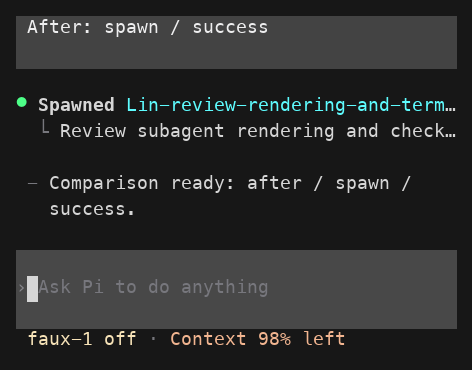
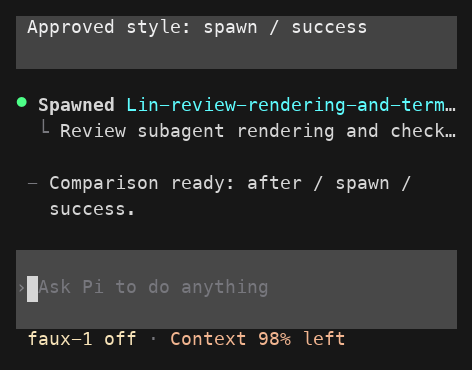
docs(adventure): 收敛界面原型并保存英雄命名规划

Changed region(s): [[0.0593, 0.0297, 0.5932, 0.0892], [0.6229, 0.0595, 0.7712, 0.0892]]

diff --git a/adventure/prototypes/subagent-ui/smoke.py b/adventure/prototypes/subagent-ui/smoke.py
@@ -18,8 +18,7 @@ from PIL import Image, ImageDraw, ImageFont
 here = Path(__file__).resolve().parent
 repo = here.parents[2]
 mode = 'fullscreen' if '--fullscreen' in sys.argv else 'regular'
-before = '--before' in sys.argv
-style = next((name for name in ['before', 'after', 'neutral', 'soft', 'quiet'] if '--' + name in sys.argv), 'after')
+style = 'after'
 output_dir = repo / '.tmp' / f'subagent-ui-{style}-{mode}'
 output_dir.mkdir(parents=True, exist_ok=True)
 screen = pyte.Screen(120, 70)
@@ -94,7 +93,7 @@ def color(value, fallback):
 def capture(name, focus=False):
     screens[name] = view()
     rows = [i for i, line in enumerate(screen.display) if line.strip()]
-    start = next((i for i in reversed(rows) if screen.display[i].strip().startswith(('Before:', 'After:', 'Neutral text:', 'Soft green:', 'Quiet metadata:'))), 0)
+    start = next((i for i in reversed(rows) if screen.display[i].strip().startswith(('Approved style:',))), 0)
     end = rows[-1] + 1 if rows else screen.lines
     if focus:
         start = next(i for i, line in enumerate(screen.display) if "Finished waiting for" in line)
@@ -126,42 +125,36 @@ try:
     assert 'Extension issues' not in view(), view()
     for text in ['Spawned Lin', 'Sent input to Lin', 'Listed 2 subagents', 'Read activity from Lin', 'Finished waiting for Lin', 'Closed Lin', 'Read tool-style.ts', 'Bash']:
         assert text in view(), (text, view())
-    assert markers()[-6:] == (['77777d'] * 6 if before else ['4dff88'] * 6), markers()
-    expected_success = {'before': '4dff88', 'after': '40d672', 'neutral': 'd6d6d6', 'soft': '8fb89b', 'quiet': '77777d'}[style]
+    assert markers()[-6:] == ['4dff88'] * 6, markers()
+    expected_success = '46e87c'
     for needle in ['Settled', 'Process stopped']:
         cells = [screen.buffer[row][line.index(needle)].fg for row, line in enumerate(screen.display) if needle in line]
         assert cells and all(value == expected_success for value in cells), (needle, cells, expected_success)
-    if style == 'quiet':
-        row = next(row for row, line in enumerate(screen.display) if 'Settled' in line)
-        line = screen.display[row]
-        cells = [screen.buffer[row][col].fg for col in range(len(line)) if line[col].strip()]
-        assert set(cells) == {'77777d'}, ('Success summary must be uniformly dim', cells)
     capture('success')
     capture('palette', focus=True)
     os.write(fd, b'\x0f')
     settle()
     assert 'Reviewed the renderer.' in view(), view()
-    if not before:
-        assert '│ Review subagent' in view(), view()
+    assert '│ Review subagent' in view(), view()
     capture('expanded')
     os.write(fd, b'\x0f')
     settle()
     command(f'/demo all hold {style}')
     wait(lambda: 'Waiting for child-lin' in view() and 'Closing child-lin' in view(), 'all six held')
     settle()
-    assert markers()[-6:] == (['77777d'] * 6 if before else ['ffe66d'] * 6), markers()
+    assert markers()[-6:] == ['ffe66d'] * 6, markers()
     capture('running')
     command('/finish success')
     wait(lambda: f'Comparison ready: {style} / all / hold.' in view(), 'held calls complete')
     settle()
-    assert markers()[-6:] == (['77777d'] * 6 if before else ['4dff88'] * 6), markers()
+    assert markers()[-6:] == ['4dff88'] * 6, markers()
     demo('all', 'error')
     assert 'Spawn failed' in view(), view()
-    assert markers()[-6:] == (['77777d'] * 6 if before else ['ff6b6b'] * 6), markers()
+    assert markers()[-6:] == ['ff6b6b'] * 6, markers()
     capture('error')
     for outcome in ['timeout', 'interrupted']:
         demo('wait', outcome)
-        assert markers()[-1:] == (['77777d'] if before else ['ffe66d']), markers()
+        assert markers()[-1:] == ['ffe66d'], markers()
         capture(outcome)
     command(f'/demo spawn success {style} long')
     wait(lambda: f'Comparison ready: {style} / spawn / success.' in view(), 'long agent name')

diff --git a/adventure/prototypes/subagent-ui/README.md b/adventure/prototypes/subagent-ui/README.md
@@ -1,91 +1,64 @@
-# Subagent UI comparison
+# Subagent UI prototype
 
-## Question
+## Status
 
-保留六类工具消息的信息结构后，统一状态符号、文字层级和结果缩进，是否让 subagent 与周围的 codex-ui 更协调？请在同一终端对照原版与候选版，并查看展开与窄屏。
+用户已确认 /after 的视觉方案，最后将成功文字绿色修正为 #46e87c。原型已收敛为这一版；原版、正文色、灰绿与暗灰的交互入口和预览已移除，历史可从 Git 恢复。完整有效规格在 [Spec #25](https://github.com/wangxuyang1221/pi-ext/issues/25) 维护。
 
-本原型属于 [Planning #27](https://github.com/wangxuyang1221/pi-ext/issues/27)。用户已确认制作范围，尚未确认视觉方案。
+随机英雄名属于新增的 [Planning #28](https://github.com/wangxuyang1221/pi-ext/issues/28)，尚未接入此原型。
 
 ## Run
-
-在本冒险 worktree 中运行：
 
 ```sh
 cd /Users/wangxuyang/Code/t3code/pi-ext/.scratch/u
 pnpm exec node adventure/prototypes/subagent-ui/demo.mjs
 ```
 
-启动默认展示用户选回的 /after 布局，成功文字绿色从 #4dff88 小幅调暗为 #40d672，并保留真实 codex-ui Read、Bash 作为参照。
+默认展示已确认的六类工具消息，并保留真实 codex-ui Read、Bash 作为参照。
 
-- `/quiet`：历史暗灰方案，成功状态文字使用 dim #77777d，与后续元信息同色。
-- `/neutral`：选项 1，成功状态文字使用正文色 #d6d6d6。
-- `/soft`：选项 2，成功状态文字使用灰绿 #8fb89b。
-- `/before`：追加原版六类消息。
-- `/after`：当前方案，沿用原候选布局，成功文字绿色微调为 #40d672。
-- `Ctrl+O`：使用 Pi 原生折叠/展开。
-- `/demo all hold`：观察六类工具进行中，再输入 `/finish success` 或 `/finish error`。
+- `/after`：重新展示六类消息。
+- `Ctrl+O`：Pi 原生折叠/展开。
+- `/demo all hold`：观察六类调用进行中，再用 `/finish success` 或 `/finish error` 完成。
 - `/demo all error`：观察六类失败消息。
-- `/demo wait timeout` 与 `/demo wait interrupted`：观察等待超时和中断。
-- `/demo spawn success after long`：观察长名称。缩小窗口到 40 或 80 列检查截断。
+- `/demo wait timeout` 与 `/demo wait interrupted`：观察等待超时、中断。
+- `/demo spawn success after long`：观察长名称，可将终端缩到 40 或 80 列。
 - `/quit`：退出并清理隔离运行目录。
 
-`--after` 为当前默认方案；`--quiet` 可指定历史暗灰方案；`--neutral` 和 `--soft` 可指定之前的两个方案，`--before` 可从原版开始，`--expanded` 可从展开状态开始，`--fullscreen` 使用 Pi 全屏模式。每次调用的样式固定，切换不会改写上方已有消息。`/before` 和 `/after` 只是追加显示对照，不执行真实子代理。
+启动时可加 `--expanded` 或 `--fullscreen`。原型不会运行真实子代理。
 
 ## Landing Map
 
-- Target：Pi 主对话的 subagent 工具调用与结果行，覆盖 spawn、prompt、list、read、wait、close。
+- Target：Pi 主对话中的 spawn、prompt、list、read、wait、close 工具调用与结果行。
 - Context：真实 Pi 0.86.0 InteractiveMode，加上当前生产 codex-ui 的编辑器、页脚、Read 和 Bash 渲染。
-- Contract：Pi registerTool 的 renderShell self、renderCall、renderResult、行内共享 state、isPartial、isError 与原生展开状态。fixture 替换 execute 返回的数据，不替换 Pi 的布局与工具生命周期渲染。
-
-## Candidate
-
-- 复用 codex-ui 的状态圆点与主题色。调用进行中为黄色，成功为绿色，失败为红色；wait 超时和中断为黄色。
-- 标题仍强调动作，目标名称使用 accent 色但不额外加粗。
-- 任务和回复用正文色，活动统计等辅助信息弱化。
-- 多行结果使用竖线连接，末行用转角结束；单行结果保持原有缩进。
-- 保留所有原有文案、字段、顺序及默认/展开信息归属。窄屏仍按现有规则截断。
-
-圆点描述工具调用，不把成功创建或发送消息解释为子代理任务已经完成。展开状态中仍可看到 Running。此语义已用原型覆盖，是否采用这套视觉方案由用户审阅决定。
-
-## Success text variants
-
-用户认为 Settled 的绿色过亮，已要求把两个替代方案都做出来。当前仅限 subagent 结果区的成功状态文字：Settled、Process stopped、列表中 settled 的数量/状态等。选项 1 使用主题 text，选项 2 在原型中使用固定灰绿 #8fb89b。两者的标题圆点、warning、error、正文、信息顺序和布局相同。没有修改全局主题，因此周围 Read/Bash 与 diff 颜色保持原样。
-
-styles.mjs 通过结果区专用 theme 代理实现；灰绿是原型固定色，尚不是正式主题 API 设计。用户已否定正文色与灰绿两版。最新 quiet 方案经用户要求制作，将同一范围的成功文字映射到主题 dim，使 Settled 与其后整行元信息一致；标题圆点、警告/错误、任务与回复正文保持原样。用户随后选择回到 /after，要求绿色仅调暗一点。当前 /after 成功文字为 #40d672，保留鲜绿色调；标题圆点继续使用主题 success #4dff88。neutral、soft、quiet 保留作历史比较。新色值仍是待审阅的试调值。
+- Contract：registerTool 的 renderShell self、renderCall/renderResult、共享 state、isPartial/isError 与原生展开状态。仅替换 execute 的数据来源和试验中的 renderer 样式。
 
 ## Real and fixture
 
-真实部分：当前仓库的 codex-ui 源码与主题、subagent 原版 renderer、Pi 会话、流式工具参数、工具组件、编辑器、页脚、快捷键和窗口尺寸变化。
+真实部分是仓库的 codex-ui、主题、subagent renderer、Pi 会话与流式工具参数、工具组件、编辑器、页脚、快捷键和窗口尺寸变化。
 
-fixture：模型由 Pi 官方 fauxProvider 提供固定响应；六类子代理结果及周围 Read/Bash 的执行结果由固定数据提供。Bash 中显示的命令只是上下文样例，不执行 shell。未加载真实 subagent manager，不创建子代理或 tmux。网络、真实凭证和用户配置不参与原型运行。
+fixture 为 Pi 官方 fauxProvider 的固定模型响应，以及子代理和 Read/Bash 的固定结果。显示的 Bash 命令只是例子，不执行 shell。原型不加载真实 subagent manager，不创建 tmux 或子代理，不读取真实凭证和用户配置。
 
-approximation：原型展示的是设计状态样例，不能验证真实任务耗时、子代理认证、资源调度或恢复行为。PNG 是从真实 PTY 终端单元格重绘的预览，颜色与内容来自捕获，字体回退和行高不等同于用户的终端。
+approximation：固定结果不能证明真实子代理的认证、调度、任务耗时或恢复行为。PNG 根据真实 PTY 单元格重绘，字体回退和行高可能与用户终端不同。实际效果以运行入口为准。
 
-## Implementation and cleanup
+## Files and cleanup
 
-所有原型文件集中在本目录。prepare.mjs 将生产源码转译到临时目录，并且只对候选版 renderer 应用锚点检查的局部补丁；不修改 extensions/src 或 dist。候选不另造业务数据模型，正式实施应将已批准的规则重新实现到生产源码和测试中，不直接引入运行时源码补丁。
+prepare.mjs 将生产源码转译到隔离目录，只对已确认方案应用带锚点检查的 renderer 补丁。styles.mjs 仅覆盖成功结果文字颜色。未修改生产 src，也未手工编辑 dist。
 
-启动脚本在仓库 .tmp 中创建隔离运行目录并在退出时删除。smoke.py 的测试截图和终端捕获留在 .tmp/subagent-ui-* 下供调试。无需启动后台服务或监听端口。
+原版 renderer 仅在 check.mjs 中作为信息保留对照，不是可切换的 UI 方案。正式实施应把已确认的规则实现到生产源码和正式测试，不把原型源码补丁直接发布。
+
+临时运行目录位于仓库 .tmp，退出时删除。测试捕获保存在 .tmp/subagent-ui-after-*；正式预览在 previews/。没有后台服务和监听端口。
 
 ## Verification
 
 ```sh
 pnpm exec node adventure/prototypes/subagent-ui/check.mjs
 conda run -n codex-py312 python adventure/prototypes/subagent-ui/smoke.py
-conda run -n codex-py312 python adventure/prototypes/subagent-ui/smoke.py --before
-conda run -n codex-py312 python adventure/prototypes/subagent-ui/smoke.py --quiet
-conda run -n codex-py312 python adventure/prototypes/subagent-ui/smoke.py --quiet --fullscreen
-conda run -n codex-py312 python adventure/prototypes/subagent-ui/smoke.py --neutral
-conda run -n codex-py312 python adventure/prototypes/subagent-ui/smoke.py --soft
-conda run -n codex-py312 python adventure/prototypes/subagent-ui/smoke.py --soft --fullscreen
+conda run -n codex-py312 python adventure/prototypes/subagent-ui/smoke.py --fullscreen
 ```
 
-check.mjs 对照 160 组渲染状态，验证前后文字信息不变，并检查 0、1、2、12、40、80、120 列不越界。PTY smoke 覆盖六类消息、成功/进行中/失败、wait 超时/中断、展开折叠、长名称、80/40/120 列切换、退出与网络零调用断言。
-
-验证结果与截图见 [review.md](review.md)。视觉是否达到目标尚待用户审阅，技术验证通过不代替用户确认。
+收敛后只验证已确认方案：40 组文字信息对照、0/1/2/12/40/80/120 列边界、六类状态、成功文字颜色、展开/折叠、长名称和窗口变化，以及退出清理、网络零调用。当前结果与预览见 [review.md](review.md)。
 
 ## API sources
 
-版本来自已安装的 @earendil-works/pi-coding-agent 与 pi-ai 0.86.0。Context7 查询只提供 main 版本文档，因此实际调用已对照本地同版本 dist/core/extensions/types.d.ts、SDK 声明、pi-ai/dist/providers/faux.d.ts 以及现有 tool-status-prototype/runtime.mjs 核验。
+运行版本为 @earendil-works/pi-coding-agent 与 pi-ai 0.86.0。Context7 提供 main 文档，因此 API 调用另与本地同版本 SDK/extension 声明、pi-ai 的 faux.d.ts 及现有 tool-status-prototype/runtime.mjs 核验。
 
 官方参考：[SDK](https://github.com/earendil-works/pi/blob/main/packages/coding-agent/docs/sdk.md)、[extension rendering](https://github.com/earendil-works/pi/blob/main/packages/coding-agent/docs/extensions.md)。

diff --git a/adventure/progress.md b/adventure/progress.md
@@ -1,6 +1,6 @@
 # Handoff
 
-> 从 Continuation Point 继续本次冒险。当前文件已替换继承的旧冒险存档；其他既有 adventure/ 材料属于历史任务，除非明确引用，不作为本次决策依据。
+> 继续当前冒险。只从本存档及明确引用的材料恢复；其他继承的 adventure/ 文件属于历史任务。
 
 ## Handoff Position
 
@@ -10,37 +10,48 @@
 
 ## Current Goal or Problem
 
-统一 subagent 与 codex-ui 的视觉。Map：https://github.com/wangxuyang1221/pi-ext/issues/24。完整有效要求只在 [Spec](https://github.com/wangxuyang1221/pi-ext/issues/25) 维护。
+统一 subagent 与 codex-ui 的 UI，并新增 spawn 随机漫威英雄名。Map 为 https://github.com/wangxuyang1221/pi-ext/issues/24，完整有效要求只在 [Spec #25](https://github.com/wangxuyang1221/pi-ext/issues/25) 维护。
+
+视觉方向 #26、视觉规则 #27 已通关。[英雄名 #28](https://github.com/wangxuyang1221/pi-ext/issues/28) 也已通关。用户要求完成本关后保存并暂停。
 
 ## Evolution
 
-用户提出 UI 不统一且尚无设计想法，显式调用 adventure。用户回复“同意”批准建图、独立 worktree 和冒险分支推送。随后两次回复“1”，分别选择先统一视觉并保留信息结构、覆盖全部六类主对话工具消息。方向关卡 #26 已通关，当前进入 #27。
+用户先选择视觉统一、保留信息结构，并覆盖全部六类消息。原型经历颜色比较后，用户明确要求收敛 /after。最后纠正颜色为 #46E87C，取代此前 #40D672；不要再询问颜色或恢复弃用方案。
+
+用户同时扩大目标：每次 spawn 随机英雄显示名。已确认调用方不再决定 name，同一父会话下避免重名，关闭后复用，名单耗尽时加编号。仍用 agentId 操作。名字池已选电影和漫画中的常见英雄。
 
 ## Agreed Decisions and Constraints
 
-- 沿用 Spec 中已确认的视觉统一方向与六类工具范围，不能重新询问已经作出的选择。
-- 用户已选择制作真实终端对照原型；具体视觉方案与实施切片尚未确认。
-- 使用本 worktree 与分支提交推送本次材料和代码，不创建 PR、不合并、不部署。
-- 主工作区有大量 adventure/ 未提交删除，必须保留，不能从 worktree 回写恢复。
-- 简体中文沟通；编辑 artifacts 前读取 docs/agents/repository-language-policy.md。禁止 skill-creator。遵循主仓库 AGENTS.md 与用户的全局约束。
-- 当前规划由主代理独立推进；进入已审核的 Implementation 后按 adventure 指派 worker，worker 不再委派。fork_turns 为 none，代码实施使用 worker 类型，并提供所需 skill 的绝对路径及要求完整读取。
+视觉最终规则见 Spec Tool presentation；英雄名已确认规则见 Spec Hero names。原型已移除 before/neutral/soft/quiet 的 UI 入口与图片，只保留已确认 /after；原版 renderer 仅在技术对照中使用。
+
+用户已批准同一冒险分支和 worktree 的创建、GitHub Issues、提交与推送。不得创建 PR、合并或部署。原型确认不代表实施切片已获批准。
+
+使用简体中文沟通，text artifacts 遵循 docs/agents/repository-language-policy.md。禁止 skill-creator。保留主工作区 adventure/ 下的未提交删除，不能从此 worktree 回写恢复。
+
+规划由主代理独立完成。进入已审核 Implementation 后按 adventure 技能委派 worker，fork_turns none、worker 类型、提供所需技能绝对路径并要求完整读取，worker 不再委派。
 
 ## Established Facts and Required Context
 
-工作目录：/Users/wangxuyang/Code/t3code/pi-ext/.scratch/u。分支：adventure/subagent-ui-consistency。基准：262824026e192e8c421ce1e1796db7b269723038。
+工作目录 /Users/wangxuyang/Code/t3code/pi-ext/.scratch/u，分支 adventure/subagent-ui-consistency。产品源码基准 262824026e192e8c421ce1e1796db7b269723038，当前未改生产源码。继续前确认 worktree 和 git status。
 
-[源码调查](evidence/ui-baseline.md) 保存现有差异及证据边界。subagent 使用灰色 •；codex-ui 使用按工具状态着色的 ⏺。Read 与 Bash 布局不同，共用状态标记。现有折叠/展开已经存在。工具调用成功与子代理任务完成不能混同。
+[原型入口](prototypes/subagent-ui/README.md) 与 [验收记录](prototypes/subagent-ui/review.md) 保存可运行原型、预览及验证限制。收敛后 40 组文本对照、7 个宽度边界及普通/全屏 PTY 验证通过。成功文字 #46E87C，标题圆点沿用主题 success。
 
-Map 与 Spec、#26、#27 已使用 GitHub 原生子 Issue 关系。冒险分支已推送。当前已交付可运行原型，未改生产源码。原型的渲染对照与真实 PTY 检查通过。缩短 worktree 路径后，原先四项 tmux 测试通过。pnpm run check 仍因缺失历史 MCP 原型文件失败；独立构建通过，包校验因缺失 docs/goal-descendant-acceptance.md 失败。完整结果见 [原型审阅](prototypes/subagent-ui/review.md)。本次启动的原型与验证进程已退出，无持续运行服务。
+[命名源码调查](evidence/hero-name-baseline.md) 说明集成边界：displayName 写入 launch、Pi --name 与 tmux；reserveSpawn 在父状态锁内预留容量，但旧代码在锁外生成名称。要保证并发不重名，设计是在同一父锁中预留名字，排除已登记名称及有效 reservation 名称。
 
-继续时读取 [当前关卡 #27](https://github.com/wangxuyang1221/pi-ext/issues/27)、Spec 与 /Users/wangxuyang/.agents/skills/wangxuyang/adventure/SKILL.md。如进入原型流程，读取其 references/prototyping.md；用户确认制作范围后才读取并使用 /Users/wangxuyang/.agents/skills/wangxuyang/make-a-prototype/SKILL.md。原型根目录按 adventure 要求为 adventure/prototypes/。
+pnpm run check 已执行，类型检查通过，2376 项测试通过、11 项跳过；唯一失败套件依赖基准缺失的 MCP 原型源码目录。此前独立构建通过，包校验另缺 docs/goal-descendant-acceptance.md。正式交付前需处理这些缺口，不能声称完整 check 通过。清理提交 341c22b 删除了相关资料但留下引用，建议切片审核纳入最小清理，不恢复旧资料或删除生产测试。详见命名证据 Baseline check failure。
+
+本任务验证进程结束后清理隔离运行目录。用户自己打开的原型进程不应被终止。没有为本次任务启动持续服务或端口监听。
+
+继续时读取 /Users/wangxuyang/.agents/skills/wangxuyang/adventure/SKILL.md、Spec 与 #28；准备切片时读取 /Users/wangxuyang/.agents/skills/wangxuyang/slicing/SKILL.md。
 
 ## Current Assumptions
 
-候选：采用 codex-ui 共用的状态标记、标题和辅助文字规则，保留 subagent 信息结构。用户已批准制作，原型已完成。候选包括按调用状态着色的 ⏺、目标名称取消加粗、正文提高对比度、辅助信息弱化、多行结果采用竖线与末行转角。具体配色、间距和状态映射仍待用户审阅。
+没有阻碍规格成立的未决产品问题。并发唯一、失败释放、旧状态兼容，以及正式主题和历史渲染仍待实施验证。32 个英文英雄称号由代理按用户确认范围整理，Marvel 官方正文已通过 MultiFetch 取得，来源可从命名证据恢复。
 
 ## Continuation Point
 
-第一关已通关并保存，当前 #27 保持 open，等待用户审阅回到 /after 后的绿色微调。读取 [README](prototypes/subagent-ui/README.md) 的运行入口与 [review.md](prototypes/subagent-ui/review.md) 的对照图、验证结果和限制。用户已批准制作，不需要再询问是否制作。用户反馈整体不错，但 Settled 过亮，要求两个方案都做。现已完成 /neutral 正文色与 /soft 灰绿 #8fb89b；只有成功结果文字不同，标题圆点保留原绿色。用户已否定这两个方案，并明确要求制作最新暗灰方案。现已加入 /quiet，把成功结果文字变为主题 dim，让 Settled 与后续元信息整行一致。用户随后选回 /after，要求绿色稍微调暗。当前 /after 默认成功文字从 #4dff88 改为 #40d672，标题圆点不变。下一步请用户审阅这个试调色值；neutral、soft、quiet 都是历史方案，不再要求用户在它们之间选择。不得把批准制作视为批准视觉方案。
+用户要求完成本关后保存并暂停，去吃饭。本次已通关 #28、移交 Spec、收敛原型并提交推送。保存后停止，不继续形成切片或派发 worker。Map 与 Spec 保持 open，规格已确定可用于实施。
 
-后续按原型制作与审阅结果确定规则，通过 #27 后移交 Spec，使用 slicing 形成切片并取得用户审核，再创建 Implementation 并逐关派发、验收。最终运行 pnpm run check 和适用的视觉核验，清理任务进程，等待用户交付确认后才关闭 Map/Spec。
+恢复后读取 Spec 和命名证据，使用 slicing 形成完整切片，交用户审核。可考虑遗留检查引用清理、六类 UI 正式集成、英雄命名三个结果，但这仅是接续建议，尚未形成或批准切片。批准后才创建 Implementation 并按 adventure 依次委派独立 worker，最后一关负责整体验收与清理。完整 pnpm run check 通过且用户确认交付后才关闭 Map/Spec。
+
+无需再询问颜色、name 覆盖、去重或名字池范围。生产代码未改，用户自己打开的原型进程保留。

diff --git a/adventure/prototypes/subagent-ui/review.md b/adventure/prototypes/subagent-ui/review.md
@@ -1,59 +1,27 @@
-# Prototype review
+# Prototype acceptance
 
 ## Decision
 
-用户选回 /after 布局，要求绿色只调暗一点。当前成功状态文字由 #4dff88 微调为 #40d672；其他布局、正文与辅助文字不变，标题圆点仍保持统一绿色。此前 neutral、soft、quiet 均为历史方案。当前微调值待审阅。
-
-## Current green
-
-[最新局部预览](previews/after-palette.png) · [完整界面](previews/after-success.png) · [原亮绿色完整界面](previews/after-original-success.png)
-
-重启后默认进入 /after，也可输入 /after 查看。
-
-## Quiet metadata
-
-[最新局部预览](previews/quiet-palette.png) · [完整界面](previews/quiet-success.png) · [展开](previews/quiet-expanded.png)
-
-输入 /quiet 可查看历史暗灰方案。完成信息统一为辅助文字，任务/回复正文仍清晰；标题圆点以及超时、失败提示保留原色。
-
-## Color comparison
-
-| Variant | Focus | Full context | Expanded |
-| --- | --- | --- | --- |
-| 1. Neutral text | [正文色](previews/neutral-palette.png) | [完整界面](previews/neutral-success.png) | [展开](previews/neutral-expanded.png) |
-| 2. Soft green | [灰绿](previews/soft-palette.png) | [完整界面](previews/soft-success.png) | [展开](previews/soft-expanded.png) |
-
-在终端输入 /neutral 或 /soft 切换。两版只改变成功结果文字，状态圆点保留原有统一绿色。
+用户已确认 /after，并在收敛阶段明确将最终成功文字绿色改回 #46e87c。有效视觉规则已移交 [Spec #25](https://github.com/wangxuyang1221/pi-ext/issues/25)。未采用方案的记录见本文件 Git 历史，当前只保留已确认原型。
 
 ## Preview
 
-PNG 来自真实 Pi PTY 的屏幕单元格，使用 Menlo 与符号字体重绘。颜色、文字和位置来自真实捕获；字体回退、字形基线及行高属于预览近似，最终以运行入口为准。
+[状态局部](previews/after-palette.png) · [完整界面](previews/after-success.png) · [展开](previews/after-expanded.png) · [进行中](previews/after-running.png) · [失败](previews/after-error.png) · [超时](previews/after-timeout.png) · [窄屏](previews/after-width-40.png)
 
-| Scene | Before | Candidate |
-| --- | --- | --- |
-| Collapsed | [Before](previews/before-success.png) | [After](previews/after-success.png) |
-| Expanded | [Before](previews/before-expanded.png) | [After](previews/after-expanded.png) |
+这些图来自真实 Pi PTY 单元格重绘，内容、颜色与位置来自捕获，字体与行高是预览近似。
 
-其他场景：[进行中](previews/after-running.png)、[失败](previews/after-error.png)、[等待超时](previews/after-timeout.png)、[40 列长名称](previews/after-width-40.png)。
+## Verification
 
-## Technical results
+原型已验证六类工具消息的信息保留、调用状态颜色、成功文字绿色、折叠/展开和长名称。收敛后保留 40 组渲染对照与 7 个宽度边界；普通与全屏 PTY 各覆盖 10 个捕获场景。技术验证不覆盖新增的英雄名功能。
 
-- 新增配色后的 160 组渲染对照通过，前后文字信息一致；0、1、2、12、40、80、120 列边界通过。
-- 真实 Pi 0.86.0 PTY 检查通过：原版普通模式、候选普通模式、候选全屏模式。每次覆盖 9 个捕获场景，验证六类消息、状态颜色、展开/折叠、长名称与窗口变化。
-- 新增两版的真实 PTY 验证通过：正文色普通模式、灰绿普通模式与全屏模式，每次 10 个捕获场景。断言 Settled 与 Process stopped 实际文字色分别为 #d6d6d6 / #8fb89b，同时标题圆点和警告/错误色保持一致。
-- 最新 quiet 方案的普通/全屏 PTY 检查均通过，验证成功摘要整行均为 #77777d，保留绿色标题圆点、黄色超时和红色失败；每种模式 10 个捕获场景。
-- 最新 /after 微调色在普通/全屏 PTY 检查中通过：Settled 与 Process stopped 实际文字色为 #40d672，绿色标题圆点仍为 #4dff88，其他状态色不变。
-- 原型运行中的 fetch 调用数为零；所有原型进程退出，隔离会话和运行目录已清理。测试输出保存在仓库 .tmp 中，不需要后台进程或监听端口。
-- 生产源码与 dist 未手工修改。候选仅在原型运行目录编译和替换 renderer。
+原型全部使用固定数据，运行过程的 fetch 调用数为零。本任务的验证进程退出后清理临时运行目录；用户自己打开的原型不由本任务关闭。
 
-## Repository checks
+## Repository baseline
 
-已执行 pnpm run check：类型检查通过；159 个测试文件通过、1 个失败、3 个跳过，2376 项测试通过、11 项跳过。失败是基准中已经缺失的 prototypes/mcp-status-ui-prototype/src/codex-startup.js。进一步检查确认该原型目录在当前提交中不存在，并非此次原型导致。
+pnpm run check 的类型检查通过；2376 项测试通过、11 项跳过。当前提交缺少 prototypes/mcp-status-ui-prototype 源码目录，导致 1 个测试文件无法加载；其余 159 个文件通过。此前因长 worktree 路径失败的 4 项 tmux 测试，在移到 .scratch/u 后通过。
 
-worktree 从长路径移到 .scratch/u 后，先前失败的四项真实 tmux 测试已通过。
+独立 pnpm run build 已通过；pnpm run package:check 另因缺少 docs/goal-descendant-acceptance.md 失败。正式交付前须解决这些基准缺口，不能把原型验收当作完整发布验收。
 
-另行运行 pnpm run build 通过；pnpm run package:check 失败，缺少基准中的 docs/goal-descendant-acceptance.md。以上完整检查未全部通过，不能作为生产交付验收。本关仍是视觉原型审阅，不扩展为修复历史仓库材料的任务。
+## Next
 
-## Continue
-
-使用 [README](README.md) 的一条命令启动。方案批准后，将规则移交 Spec，再由用户审核实施切片；本原型不直接发布到生产插件。
+视觉关卡已确认，新增随机英雄名继续在 [Planning #28](https://github.com/wangxuyang1221/pi-ext/issues/28) 收敛。完成后统一准备实施切片，交由用户审核。

diff --git a/adventure/evidence/hero-name-baseline.md b/adventure/evidence/hero-name-baseline.md
@@ -1,0 +1,42 @@
+# Hero name baseline
+
+## Confirmed intent
+
+spawn 每次随机分配漫威英雄显示名，调用方不决定 name；所有操作继续使用 agentId。同一父会话下不重名，关闭后可复用，名字池耗尽时加编号。名字用于显示，不改变代理角色或任务。
+
+## Existing flow
+
+基准代码为 262824026e192e8c421ce1e1796db7b269723038，未修改产品源码。
+
+- extensions/subagent/src/tools.ts 的 spawnParameters 包含可选 name。
+- manager.ts 的 spawnInternal 使用 options.name 或 Subagent N，写入 launch.displayName，传给 Pi --name 和 tmux windowName。
+- ManagedAgent 从持久化 launch.displayName 取名，ChildLink 另保存 name。后续工具根据 agentId 找子代理。
+- reserveSpawn 在父状态 store.update 内预留容量，但目前 reservation 没有显示名称；displayName 在预留之后、锁之外计算。
+- state-store.ts 的 mutate 使用进程内队列和 acquireFileLock，锁中重新读取状态、计算更新、验证锁所有权并写入。
+- close 确认进程关闭后移除父会话中的直接子关系并删除状态；这是已确认“关闭后可复用”的合理释放边界。
+
+## Implementation evidence
+
+基于现有锁机制，实施设计为：在父状态锁内结合已登记子代理和仍有效的 reservations 分配并预留名字。仅 UI 随机或仅查询一次 children 后随机都无法保证并发唯一。
+
+为防止编号与旧自定义名字碰撞，应比较完整显示名。旧会话保留原名并占用相同字符串，新生成器不追溯重命名。注册后从 reservation 名字移交到 launch/ChildLink，失败清理随 reservation 生命周期释放；不能对未确认已经停止的孤立进程过早释放名称。
+
+持久化一次名字后，prompt/read/wait/list 和刷新不重新抽取。会话名与 tmux 沿用同一 displayName，agentId 不变。
+
+## Name source
+
+用户已选择电影和漫画中的常见英雄。普通读取返回 403 后，MultiFetch 已成功取得以下 Marvel 官方正文，支持首批 32 个称号。名单由代理依据用户确认的范围整理，不代表用户逐项挑选，运行时无需联网。
+
+- [Avengers](https://www.marvel.com/teams-and-groups/avengers/in-comics)：Captain America、Iron Man、Thor、She-Hulk、Captain Marvel、Black Panther、Ghost Rider、Blade、Black Widow、Doctor Strange、Ant-Man、Hulk、Moon Knight、Scarlet Witch、Vision、Wasp、Hawkeye、Quicksilver、Spider-Woman、Nova。
+- [X-Men](https://www.marvel.com/teams-and-groups/x-men/in-comics)：Professor X、Cyclops、Phoenix、Angel、Beast、Iceman、Colossus、Nightcrawler、Rogue、Storm、Wolverine。
+- [Spider-Man](https://www.marvel.com/characters/spider-man-peter-parker)：Spider-Man。
+
+上述核验用于确认英雄身份，不声称都是现役团队成员。完整规格见 Spec #25。
+
+## Baseline check failure
+
+只读核验提交 341c22b15035392c8bd8a8cb5df203bd71c61e24，标题“chore: 删除调研文档和原型文件”，删除了 prototypes/mcp-status-ui-prototype 与 docs/goal-descendant-acceptance.md。
+
+extensions/mcp/__tests__/status-ui-prototype.test.ts 仍导入旧原型；package.json 两个 prototype:mcp-ui 脚本仍指向它。package.json 和 scripts/check-package.mjs 仍要求已删报告。这些遗留引用阻断测试和包校验。
+
+建议在切片审核时纳入最小清理，不恢复已删原型或报告，也不删除生产测试绕过失败。本轮未修改基础设施。并发唯一、故障清理和旧状态兼容仍需实施测试。
